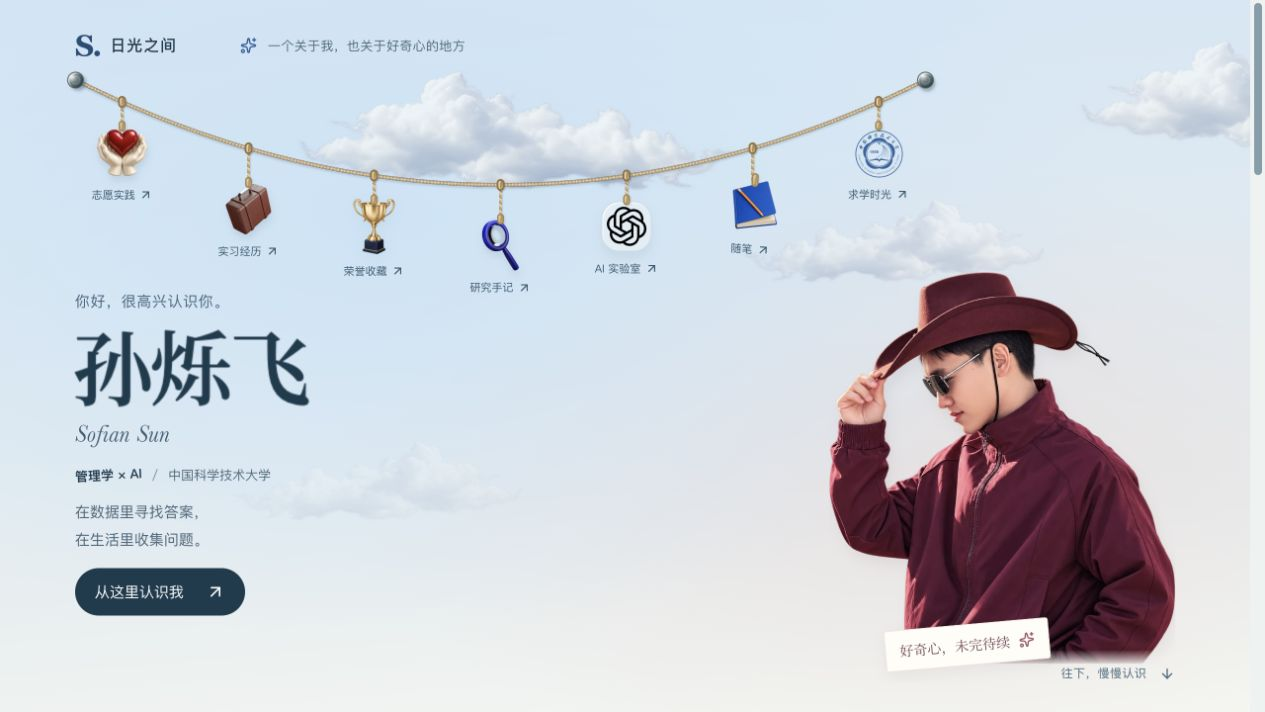
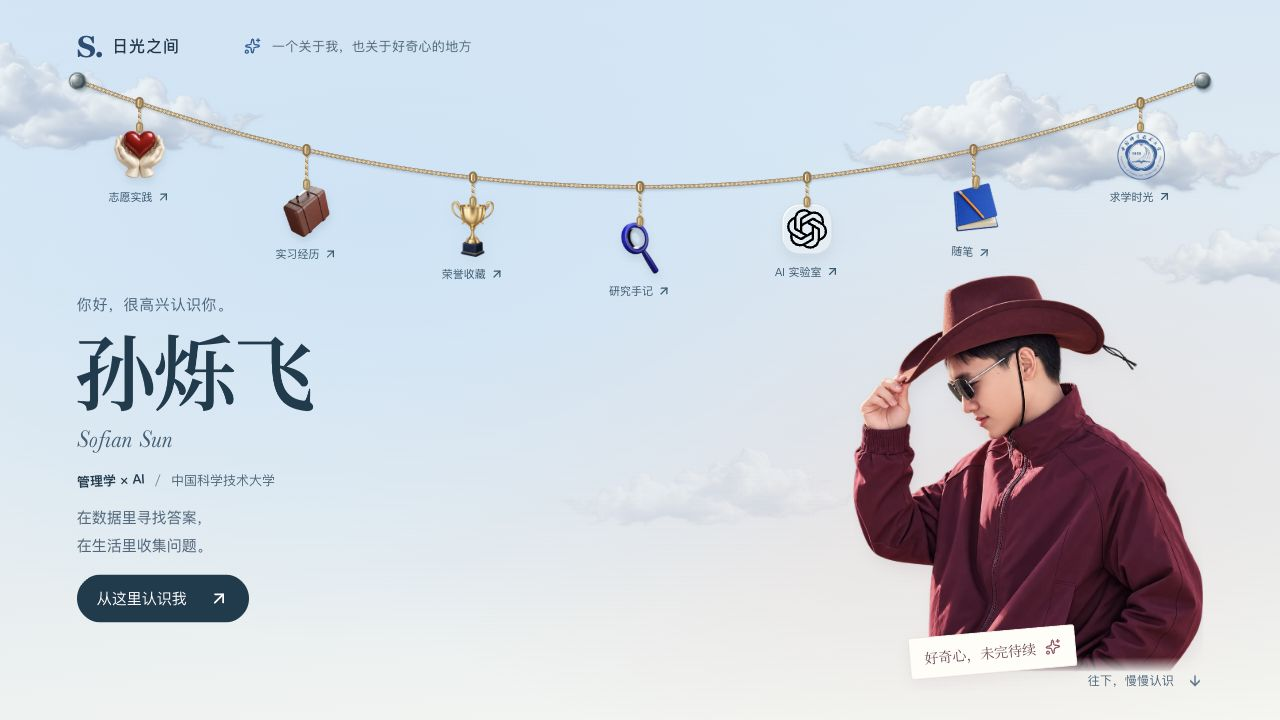
Preserve full hanging cord span on short desktop screens

diff --git a/app/home-refinement.css b/app/home-refinement.css
@@ -98,7 +98,7 @@ html[data-home-snap="relaxed"] { scroll-snap-type: y proximity; }
   .home-scene .hero-identity { font-size: 13px; }
   .home-scene .hero-description { font-size: 15px; margin-bottom: 15px; }
   .home-scene .hero-orbit .hero-figure { max-width: 350px; }
-  .home-scene .orbit-wire { top: 68px; height: 205px; }
+  .home-scene .orbit-wire { top: 68px; height: 205px; aspect-ratio: auto; }
   .home-scene .journey-copy>p { font-size: 15px; line-height: 1.85; }
   .home-scene .journey-links>button { padding: 15px 0; }
   .home-scene .journey-links>button>span:nth-child(2)>span { font-size: 14px; }

diff --git a/docs/media/README.md b/docs/media/README.md
@@ -21,11 +21,11 @@
 
 ## 2026-10-25 天空主题视觉精修
 
-本轮保留天空、人像、悬挂导航，更新下列真实本地浏览器截图（127.0.0.1:5198）：
+本轮保留天空、人像、悬挂导航，更新下列真实浏览器截图。首页桌面图来自正式 HTTPS 域名，其余来自相同源码的本地预览（127.0.0.1:5198）：
 
 | 文件 | 实际测试视口 | 展示范围 |
 | --- | --- | --- |
-| home-desktop.jpg | 1280 × 720 | 本地开源宋体、姓名静止态、七个悬挂入口与人像 |
+| home-desktop.jpg | 1280 × 720 | https://xiaofei03.ren/ 上线实拍：完整绳索、姓名静止态、七个悬挂入口与人像 |
 | home-mobile.jpg | 390 × 844 | 两排入口、姓名与人像左右排布 |
 | journey.jpg | 1280 × 720 | 七个图像入口与对齐的左右底边 |
 | home-work.jpg | 1280 × 720 | 可切换的精选作品展台与常显详情入口 |
